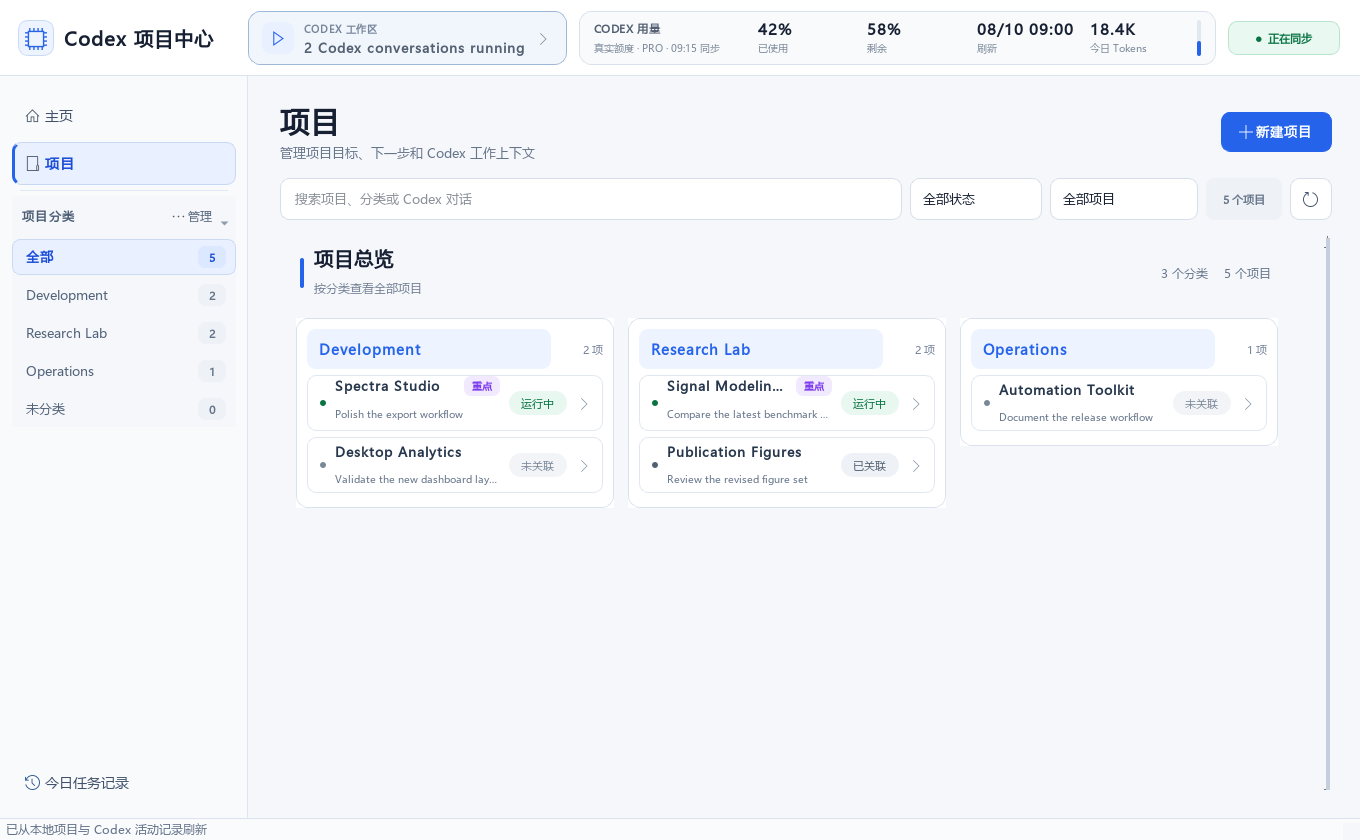
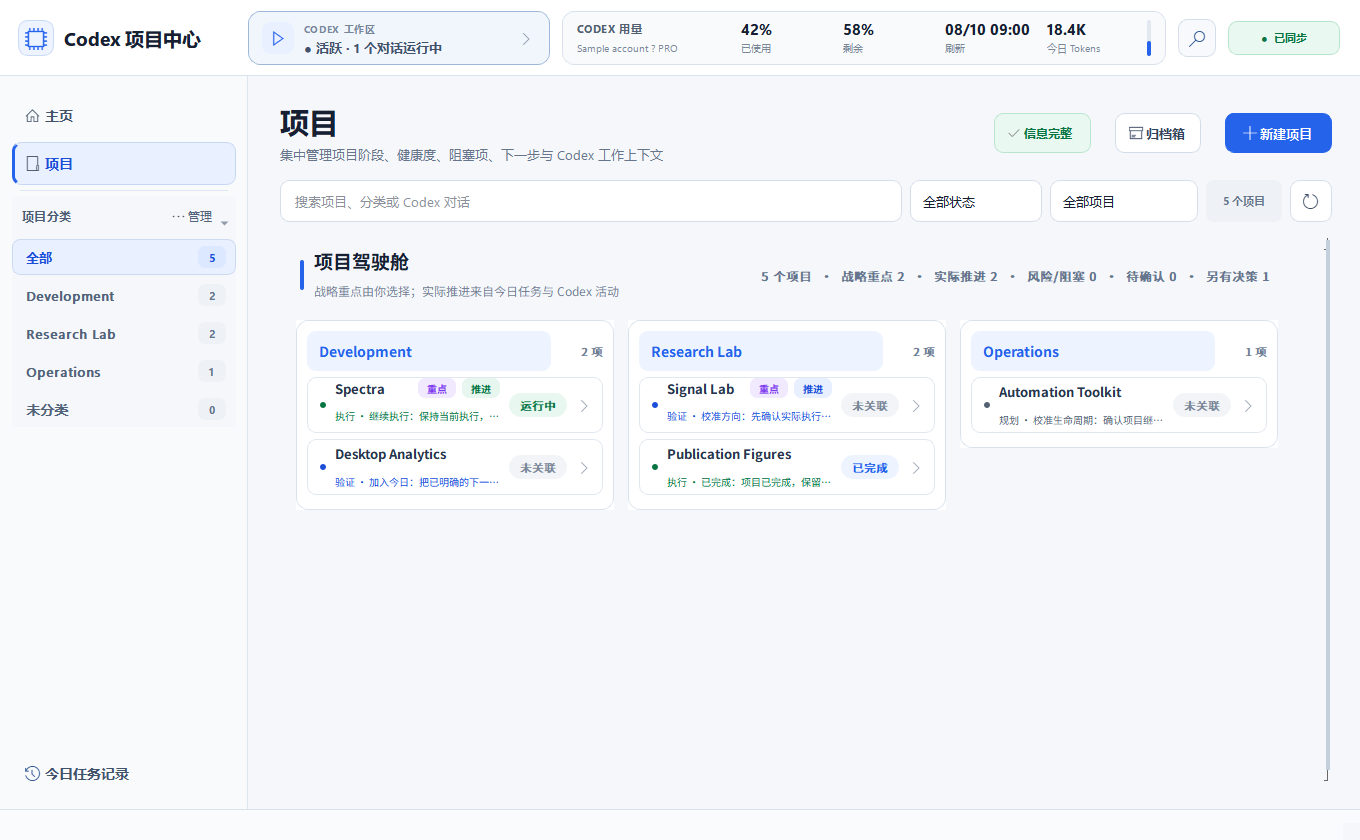
feat: align project rows with primary decisions

diff --git a/tests/test_app_logic.py b/tests/test_app_logic.py
@@ -165,6 +165,37 @@ class ReviewDialogStructureTests(unittest.TestCase):
         self.assertIn("实际推进", row.accessibleName())
         row.close()
 
+    def test_project_rows_show_the_routed_primary_command_instead_of_a_secondary_review_state(self):
+        project = {
+            "id": "runtime", "savedId": "stable", "name": "Validation", "category": "Research",
+            "status": "active", "priority": "normal", "stage": "validation", "health": "on_track",
+            "objective": "Ship", "nextStep": "Package release", "activeTaskCount": 1,
+            "conversations": [],
+        }
+        task = {"id": "task", "projectId": "stable", "status": "doing", "title": "Validate candidate"}
+        command = APP.project_workbench_command(
+            project, [], APP.QDate.currentDate().toString(APP.Qt.ISODate),
+            {"queue": "alignment", "item": {
+                "project": project, "tasks": [task], "declaredNextStep": "Package release",
+            }},
+        )
+
+        row = APP.ProjectMapRow(project, "已关联", "#526071", "#eef2f6", lambda: None, command)
+        self.assertIn("校准方向", row.command_label.text())
+        self.assertIn("先确认实际执行方向", row.command_label.text())
+        self.assertNotIn("待建基线", row.command_label.text())
+        self.assertIn("首要动作：校准方向", row.accessibleName())
+
+        parent = APP.QWidget(); parent.categories = ["全部", "Research"]; parent.expansion_preferences = {}
+        group = APP.ProjectGroup(project, parent, command)
+        labels = [label.text() for label in group.findChildren(APP.QLabel)]
+        self.assertIn("校准方向", labels)
+        self.assertNotIn("待建基线", labels)
+        self.assertIn("首要动作：校准方向", group.accessibleName())
+        status = next(label for label in group.findChildren(APP.QLabel) if label.text() == "● 未关联")
+        self.assertEqual((status.width(), status.height()), (78, 28))
+        row.close(); group.close(); parent.close()
+
     def test_project_review_returns_to_the_same_batch_after_inspecting_the_workspace(self):
         project = {
             "id": "project-1", "name": "Release", "status": "active", "priority": "normal",

diff --git a/README.md b/README.md
@@ -60,7 +60,7 @@ All screenshots use fictional sample data. They do not contain real project path
 - Ask Codex to inspect a project in read-only, ephemeral mode and suggest its objective, stage, health, blocker, and next action; suggestions remain editable and require confirmation before saving.
 - Run a portfolio-wide Codex governance pass over selected projects with missing decisions. Analysis is sequential and read-only, every proposed field is reviewed before application, existing human decisions are never overwritten, and gaps are rechecked at write time to reject stale suggestions. A project cannot establish or refresh its review baseline while required governance fields remain missing; the guided review routes incomplete local projects directly into Codex-assisted completion, and a fully applied suggestion starts the review cadence.
 - Resolve **Missing Next Action** as a guided decision queue instead of a project-list filter. Each batch focuses on at most five active projects, distinguishes folders that Codex can inspect from projects that need manual input, opens the existing review-before-write governance flow for one project at a time, and returns to the same batch after either Codex analysis or workbench editing. Saving a concrete action advances automatically; an empty path is never mistaken for the application working directory.
-- Open a single project workbench that resolves one primary command before exposing the full form. Risk, execution-direction drift, lifecycle calibration, a missing next action, focus commitment, and routine review follow the same portfolio routing order, while today's task mix, running Codex conversations, latest activity, objective, and next action remain visible as decision evidence. Detailed metadata expands only on demand, leaving the default view focused on action, tasks, and conversations.
+- Open a single project workbench that resolves one primary command before exposing the full form. Risk, execution-direction drift, lifecycle calibration, a missing next action, focus commitment, and routine review follow the same portfolio routing order, while today's task mix, running Codex conversations, latest activity, objective, and next action remain visible as decision evidence. The project map and sortable category list reuse that exact command instead of showing a lower-priority raw review state, so the instruction seen before opening a project matches the action inside it. Detailed metadata expands only on demand, leaving the default view focused on action, tasks, and conversations.
 - Keep a local, source-labelled history of real project-decision changes, including manual edits, Codex suggestions, category moves, and completed next-action handoffs.
 - Confirm a project's current state without inventing a field change. Every active project first establishes a truthful review baseline; reviewed projects then use a 3/7/14-day cadence for focus/normal/later priorities and re-enter a neutral review queue when due.
 - Keep that review baseline truthful: full editor confirmation, complete creation, or reviewed Codex governance may refresh it; narrow actions such as changing strategic focus, lifecycle calibration, category placement, alignment, or undo remain audited without resetting review debt.
